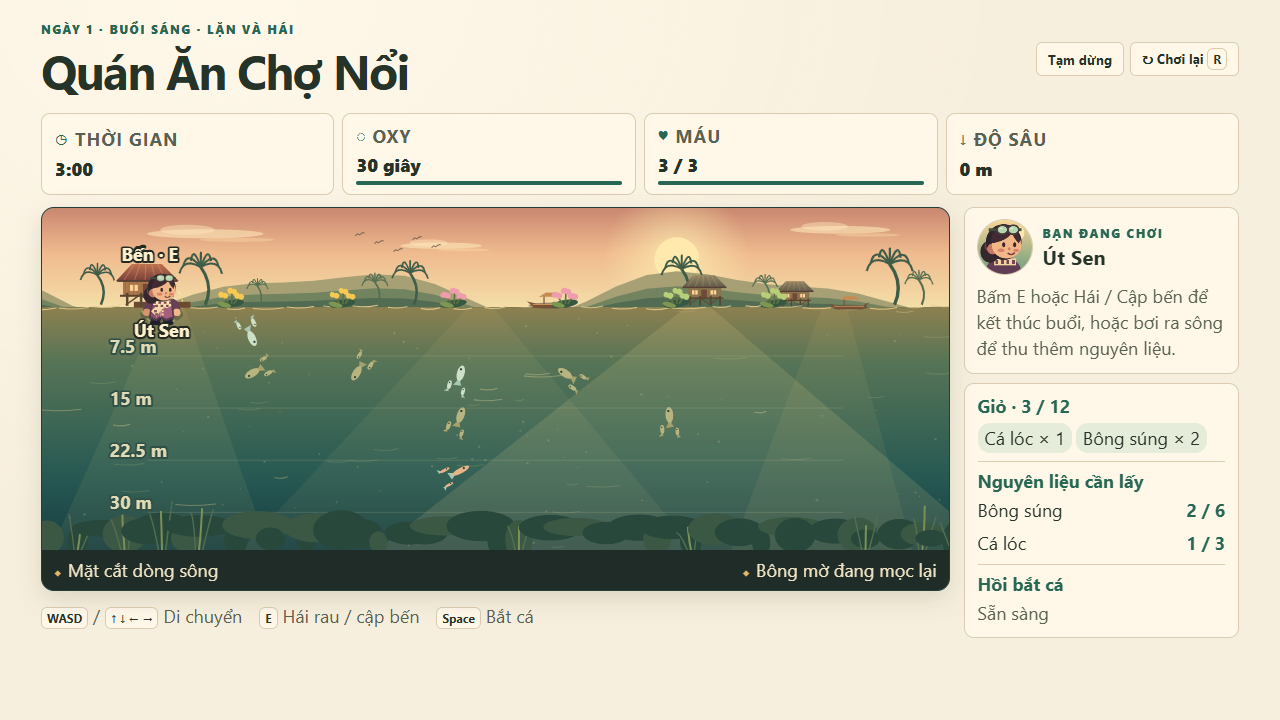
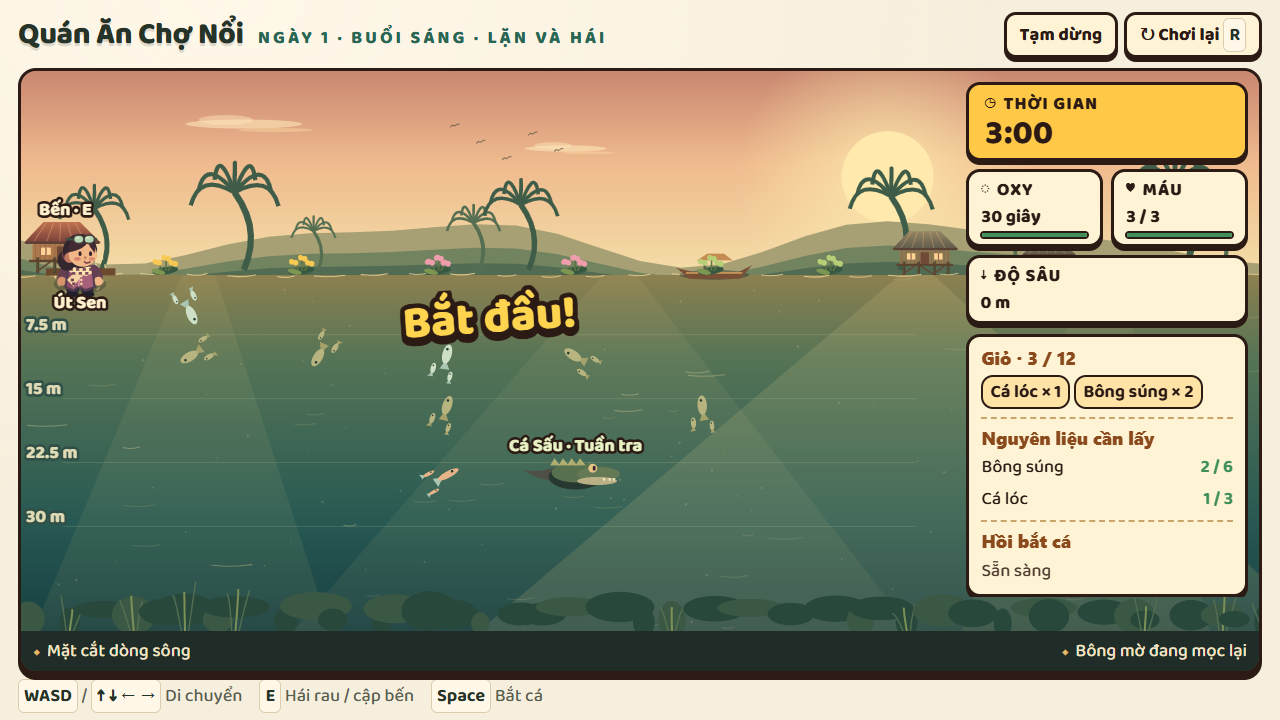
fix(ui): HUD giỏ đọc cá thể v1.2 {id, kind, fresh}; chụp lại một Ngày thật (#16)
Sau khi gộp main 32f53d6 (#41 nối ngày → quán), --day-live chạy trọn: menu →
lặn → cập bến/nhập kho → quán → kết quả → Shop (pause, mua) → tổng kết.
Lượt này cho thấy giỏ báo "3 / 12" nhưng không liệt kê nguyên liệu vì
v1.2 gửi cá thể thay cho chuỗi kind; HUD giờ nhận cả hai dạng.

Kiểm chứng: unittest 179/179 OK; browser-check --day-live OK; gather thật OK.

diff --git a/chonoi/web/index.html b/chonoi/web/index.html
@@ -943,7 +943,9 @@ function updateHud() {
     cards.push(meter("Độ sâu",point(player.pos) ? player.pos[1].toLocaleString("vi-VN",{maximumFractionDigits:1})+" m" : "—"));
     layer("giỏ", () => {
       const hasHold = Array.isArray(data.hold);
-      const hold = hasHold ? data.hold.filter(string) : [];
+      // v1.0/v1.1: mảng tên kind; v1.2: mảng cá thể {id, kind, fresh}.
+      const hold = hasHold ? data.hold.map(item => string(item) ? item : object(item) && string(item.kind) ? item.kind : null)
+        .filter(Boolean) : [];
       const count = number(data.hold_count) ? data.hold_count : hasHold ? hold.length : null;
       const capacity = number(data.hold_capacity) ? data.hold_capacity : meta.hold_capacity;
       const counts = new Map();

diff --git a/docs/proof/ui/phase-2/README.md b/docs/proof/ui/phase-2/README.md
@@ -83,7 +83,7 @@ Kịch bản trình duyệt cần Chrome và gói Python `websockets`. Có thể
 
 Chạy Chrome ở 1280×720 với runner và contract v1.1 tại `f394510` từ [PR #24](https://github.com/tuancdk/K5-L3B-LAB-Day12-AI-SDLC/pull/24), kết hợp các file giao diện và `live.py` của issue #16 trong bản xuất tạm. [Scenario smoke](day-live-scenario.json) cho Út Sen mang sẵn ba nguyên liệu, mở ca tối ngắn và bắt đầu với 200 nghìn để thử hai mức giá Shop.
 
-> Bốn ảnh `live-day-*.png` dưới đây chụp **trước** giao diện v2. Nhánh này vẫn dùng contract v1.0, nên `--day-live` báo "Chế độ day đang chờ runner và contract v1.1 (#12)". Cần chụp lại sau khi gộp `main` (đã lên contract v1.2). Ảnh fixture ở phần đầu đã là giao diện v2.
+> Bốn ảnh `live-day-*.png` chụp lại trên `main` 32f53d6 (contract v1.2, gồm sửa nối ngày → quán #41) với giao diện v2 + lớp Phaser. Lượt chạy này cũng phát hiện giỏ v1.2 là mảng cá thể `{id, kind, fresh}`; HUD giờ đọc được cả dạng cũ (tên kind) và dạng mới.
 
 - [Buổi sáng](live-day-gather.png) → E cập bến → [nhập kho đúng ba nguyên liệu](live-day-evening.png).
 - Sau ca tối, thử mua áo phao khi thiếu tiền. Esc/P đóng băng `sim_tick`, `phase_tick` và thời gian Shop, trong khi `tick` vẫn tăng theo contract v1.1. Tiếp tục và [mua bình oxy được cấp 1](live-day-shop.png).
